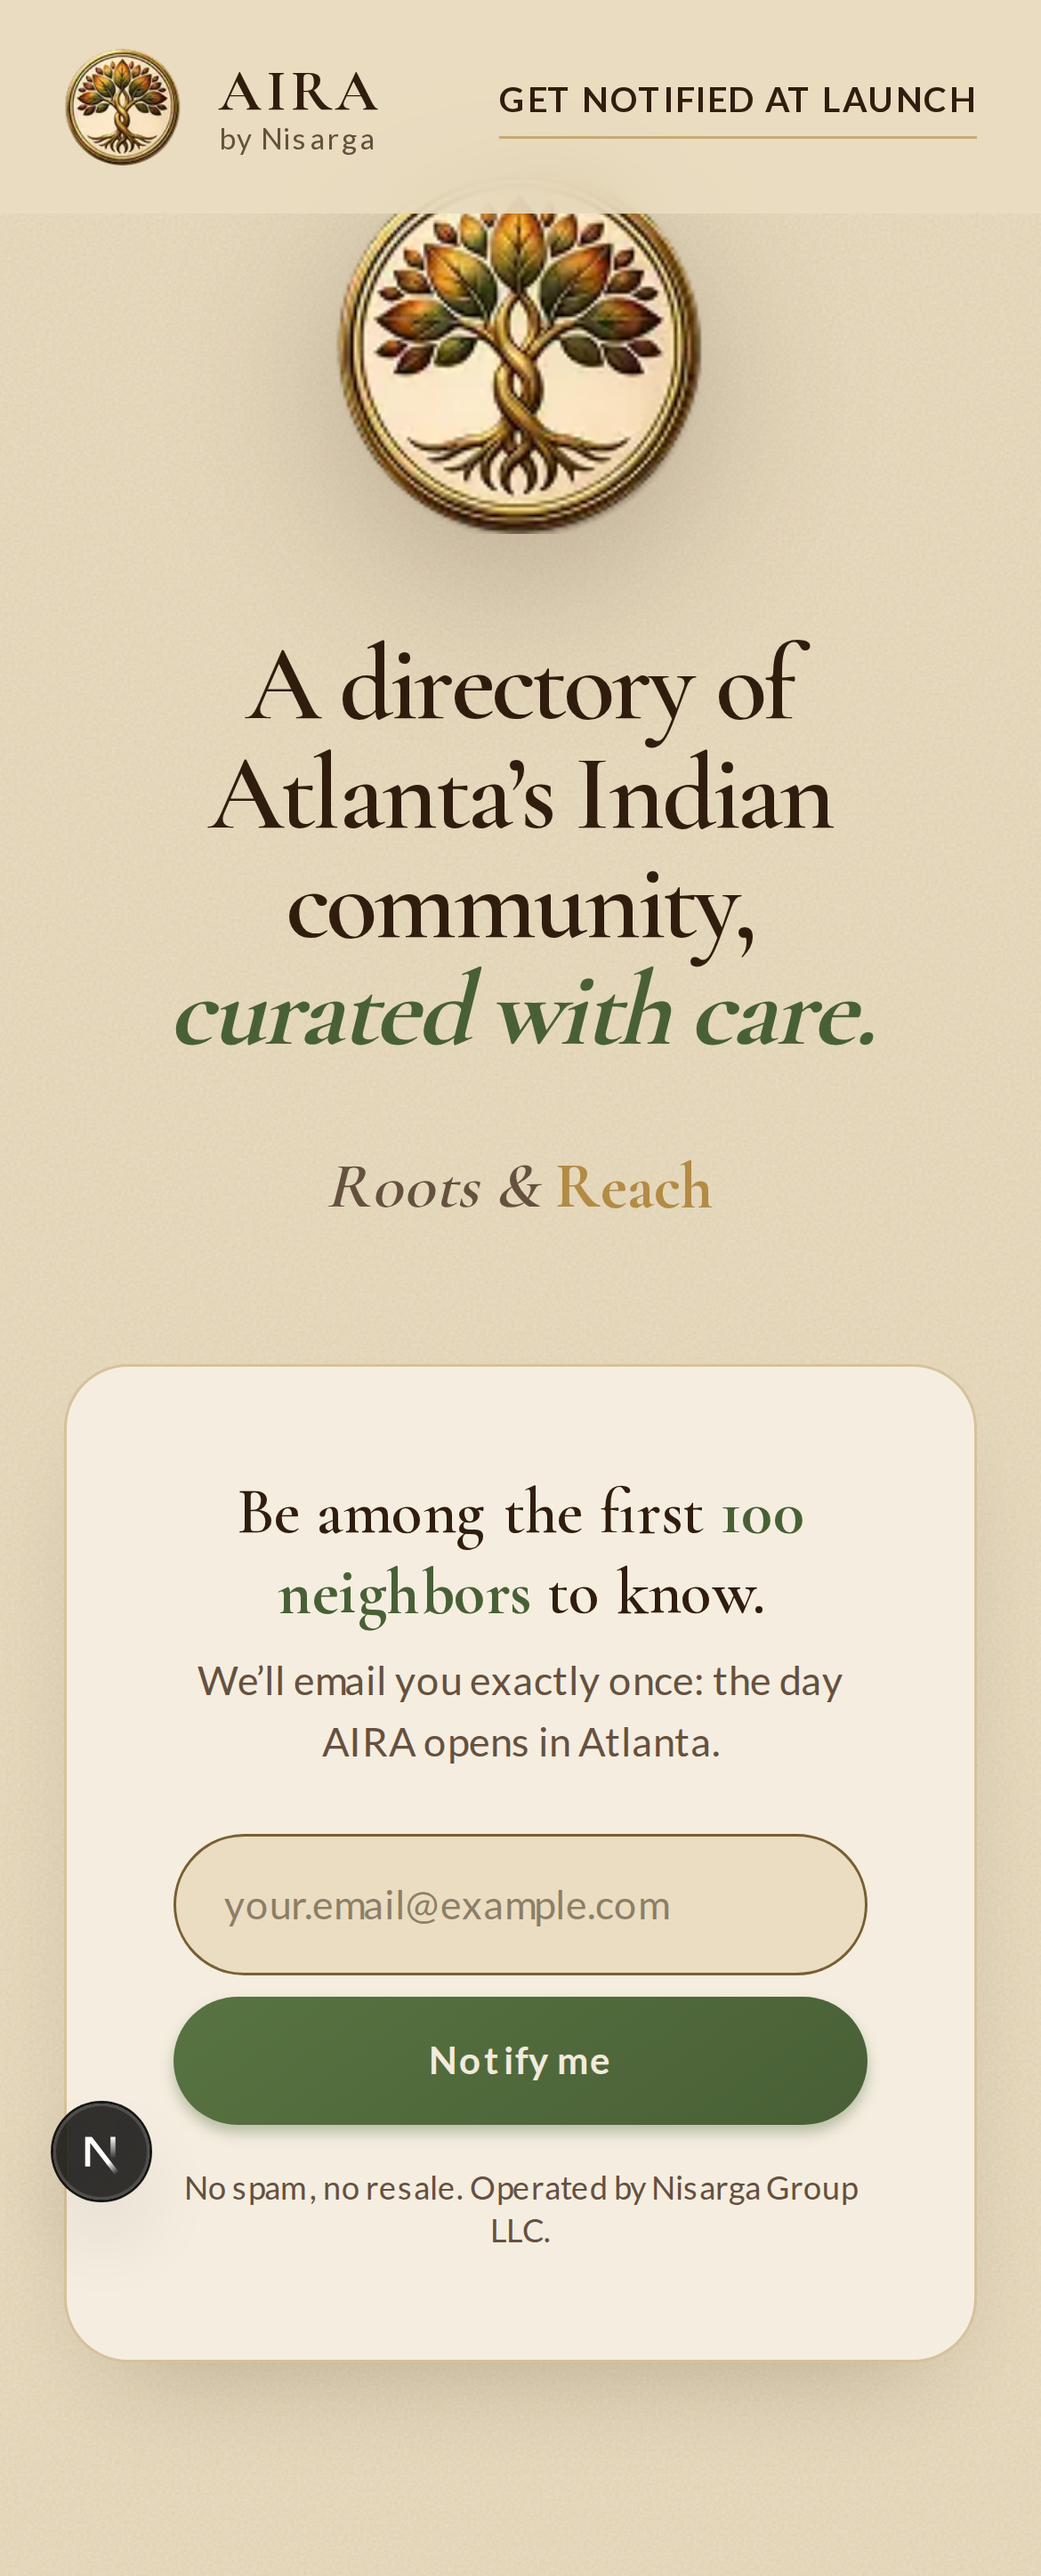
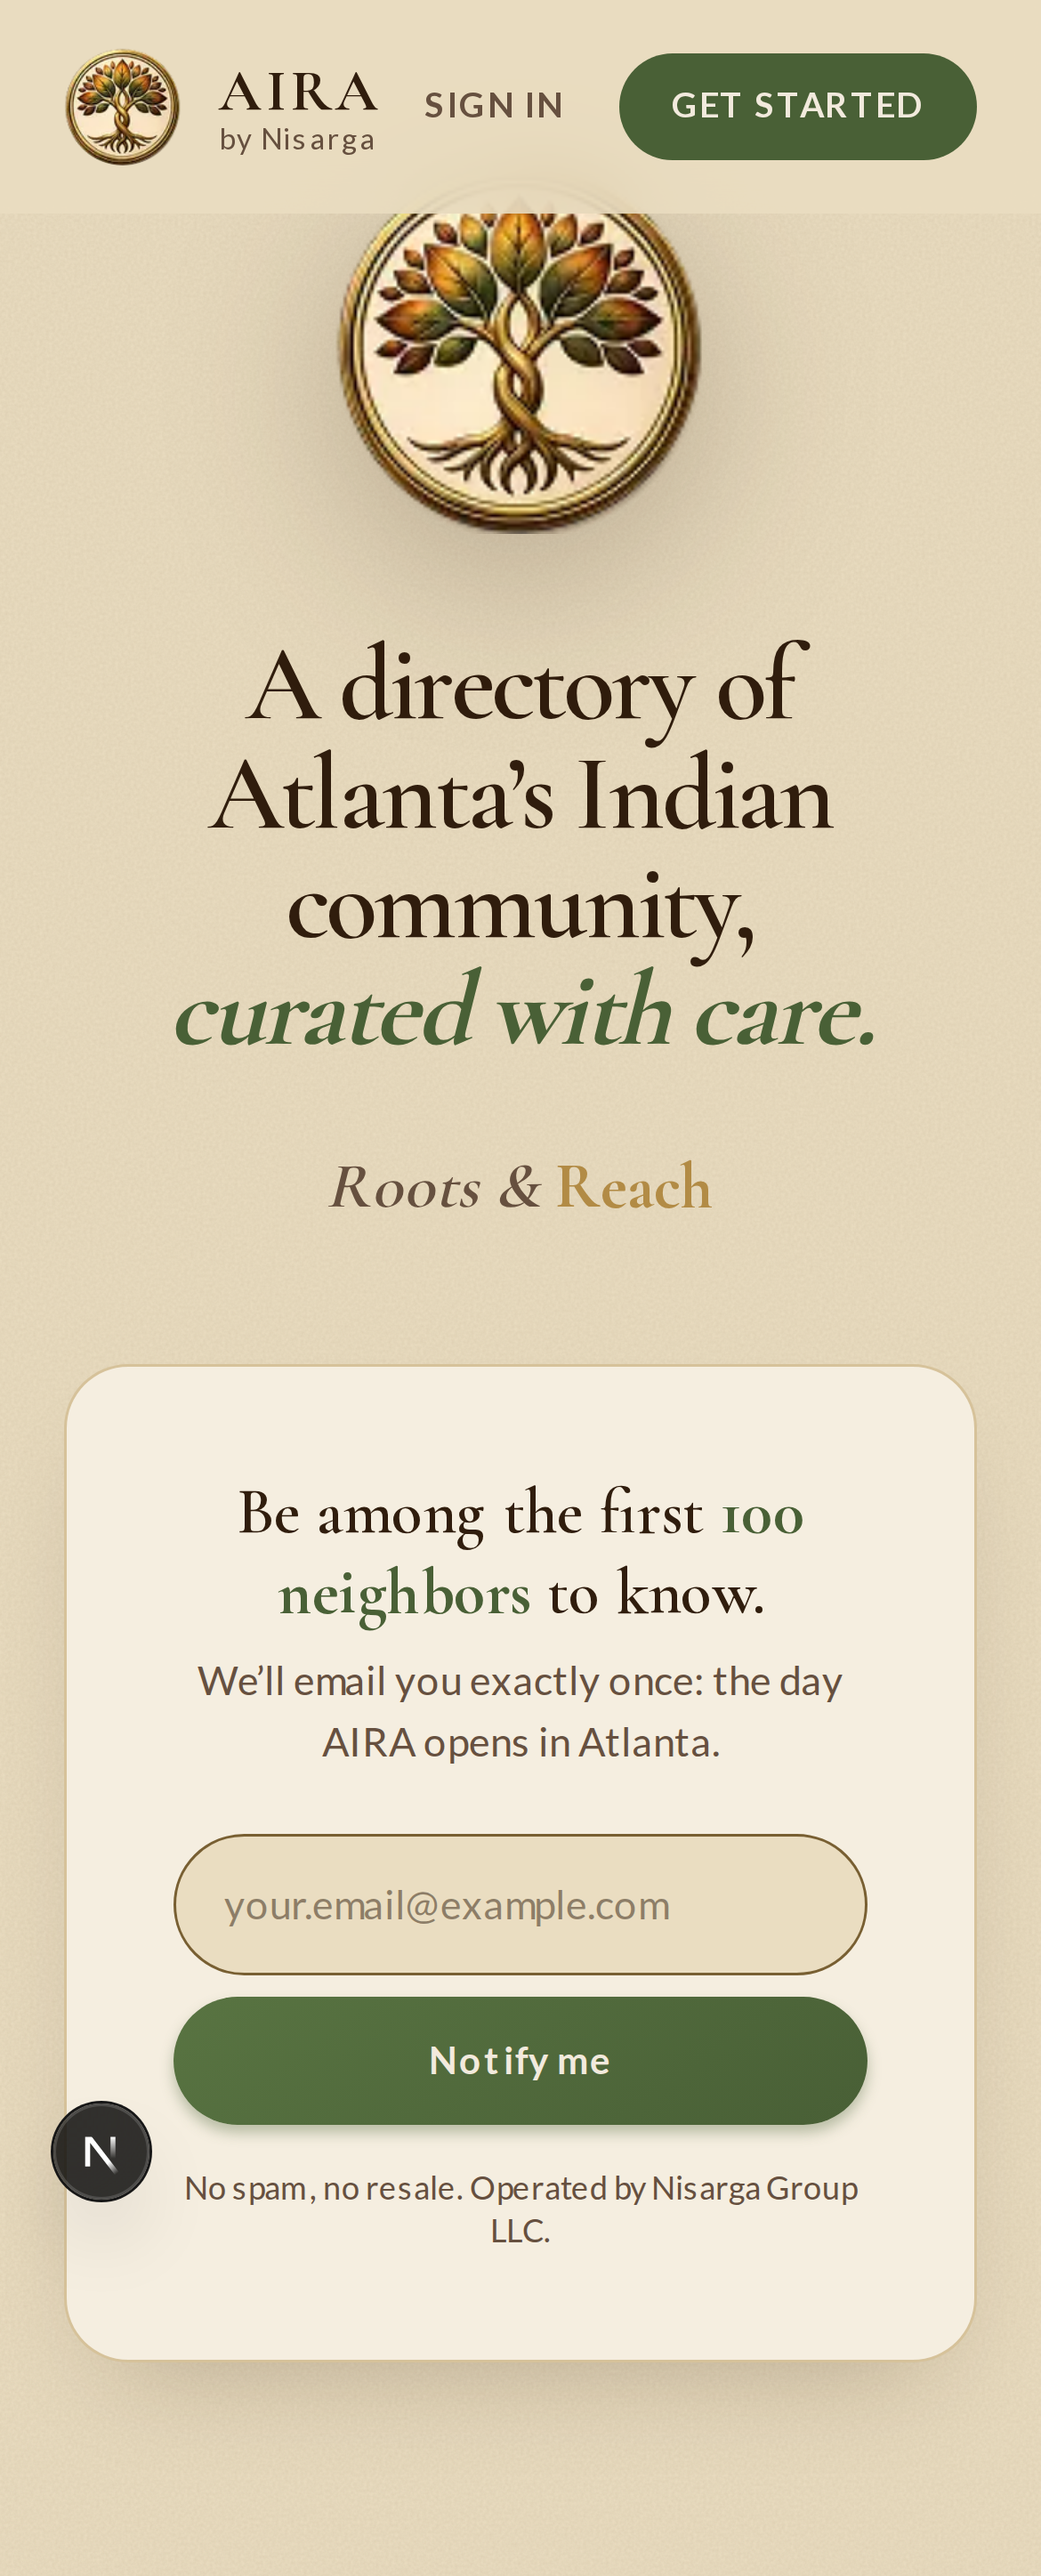
chore: record marketing-page-launch artifacts + harden workspace for next session
- .mstack/code/marketing-page-launch/: /mlabs-code implementation report (log, tasks, summary)
- .mstack/qa/2026-05-25-1120/: /mlabs-qa scenario run with assets + results.json
- .mstack/ux-audits/2026-05-25-1140/: light-mode verification spec, mobile-os screenshots, refreshed audit images
- .mstack/learnings.jsonl: 4 entries from this session's mlabs-code and mlabs-qa runs
- .mstack/plans/2026-05-25-marketing-page-launch.md: status reviewed -> implemented
- .claude/memory/: persistent guides — replit-gh-push-auth (credential helper precedence), replit-truncated-history (first-push fix)
- .gitignore: exclude Claude Code session state, npm cache, and sensitive uploads under attached_assets/
- attached_assets/: 9 UX reference screenshots
- package.json claude script: thread HOME=\$PWD + CLAUDE_CODE_OAUTH_TOKEN so Replit bootstrap reuses persistent OAuth token
- .claude/settings.json: theme: dark

Changed region(s): [[0.4308, 0.0, 0.9538, 0.0622]]

diff --git a/.mstack/code/marketing-page-launch/report.md b/.mstack/code/marketing-page-launch/report.md
@@ -1,0 +1,82 @@
+# Run report — marketing-page-launch
+
+**Status:** ✅ complete · 12/12 tasks shipped
+**Started:** 2026-05-25 10:50
+**Completed:** 2026-05-25 11:18 (~28 minutes elapsed)
+**Branch:** main (12 commits, all clean pre-commit hooks)
+**Review:** [.mstack/reviews/2026-05-25-marketing-page-launch.md](../../reviews/2026-05-25-marketing-page-launch.md)
+
+---
+
+## Tasks
+
+| | Task | Commit | Notes |
+|---|---|---|---|
+| ✓ | **T1** Waitlist Drizzle schema + migration | `4fdfb21` | First schema in this repo to use a CHECK constraint (review pre-approved) |
+| ✓ | **T2** Waitlist Zod validator | `97d2ab0` | Reuses shared `emailSchema` from auth.ts; refined in T4 to keep `_h` permissive |
+| ✓ | **T3** Welcome email template + wrapper + dev preview | `e504493` | Needed an `exports` map entry in `@aira/email/package.json` for the new subpath |
+| ✓ | **T4** `/api/v1/waitlist` POST route | `d98e5ea` | Route-direct (documented exception — `defineOperation` is auth-only) |
+| ✓ | **T9** ESLint allowlist + `brand.ts` swap | `bc976cf` | Executed early per reorder — unblocks T5-T8 marketing copy linting |
+| ✓ | **T5** waitlist-card.tsx | `35ae639` | Client component, honeypot via offscreen inline styles |
+| ✓ | **T6** about-editorial + categories-roster | `95c4e51` | Drop-cap via `:first-letter` in a dedicated CSS file (Tailwind v4 limitation) |
+| ✓ | **T7** phone-showcase + marketing-images | `4991d88` | ~940 KB of committed PNGs; `next/image` handles optimization |
+| ✓ | **T8** business-panel | `0678d77` | mailto uses `brand.supportEmail` from @aira/config |
+| ✓ | **T10** marketing-nav + marketing-footer rewrites | `2b758a8` | Added a `signedIn?` backward-compat shim to keep T10 typechecking; T11 removed it |
+| ✓ | **T11** Cutover (hero + page.tsx + og-image) | `15587ef` | OG image composed via Sharp at runtime (~275 KB); `brand.name` template literals in page.tsx |
+| ✓ | **T12** Delete 7 retired + fixture backfill | `2e8b935` | Surfaced + fixed a latent check-contrast test fixture gap |
+
+## Commits
+
+```
+2e8b935 feat(marketing): T12 delete 7 retired components + fixture backfill
+15587ef feat(marketing): T11 cutover — hero + page.tsx + og-image
+2b758a8 feat(marketing): T10 rewrite marketing-nav + marketing-footer
+0678d77 feat(marketing): T8 business-panel component
+4991d88 feat(marketing): T7 phone-showcase + committed marketing-images
+95c4e51 feat(marketing): T6 about-editorial + categories-roster
+35ae639 feat(marketing): T5 waitlist-card client component
+bc976cf chore(brand+tooling): T9 ESLint allowlist + brand.ts swap to airabynisarga.com
+d98e5ea feat(waitlist): T4 /api/v1/waitlist POST route + docs
+e504493 feat(waitlist): T3 welcome email template + wrapper + dev preview
+97d2ab0 feat(waitlist): T2 Zod validator
+4fdfb21 feat(waitlist): T1 schema + migration
+```
+
+Pre-commit hooks (check-migrations · check-contrast · check-mobile-tailwind) passed on every commit. Zero `--no-verify` usage. Zero amends.
+
+## Final verification
+
+| Check | Result |
+|---|---|
+| `pnpm typecheck` | ✅ 10/10 packages |
+| `pnpm lint` | ✅ 3/3 packages, zero warnings |
+| `pnpm test` | ✅ 18 files / 162 tests |
+| `pnpm check-contrast` | ✅ 36 token pairs all pass |
+| `pnpm gen:mobile-tw:check` | ✅ in sync |
+| `curl /` | ✅ 200, HTML contains AIRA brand strings |
+| `curl /og-image.png` | ✅ 200, image/png, 275124b |
+| `curl POST /api/v1/waitlist` | ✅ 200 `{"ok":true}` with row insertion + welcome email |
+
+## Pivots from the review (none required user re-approval)
+
+1. **`_h.max(0)` Zod constraint dropped** (T4). Plan/review specified `max(0)` for the honeypot, but that would make Zod 400 instead of letting the route return 200-silent. Behavior moved to the route; validator stays permissive on type.
+2. **Backward-compat `signedIn?: boolean` shim on `MarketingNav`** (T10). Without it, T10's commit would break typecheck mid-PR-sequence because `page.tsx` still passes the prop until T11. Shim removed in T11.
+3. **`page.tsx` brand strings use `brand.name` template literals** instead of hardcoded "AIRA" (T11). ESLint allowlist only covers `components/marketing/`, not `app/page.tsx`. Template literals via `@aira/config` are the codebase convention anyway.
+
+## Latent bug surfaced (and fixed)
+
+The earlier design-system commit (`85fe59f`) added `tier1/2/3/info` pairs to `scripts/check-contrast.ts` `PAIRS` array but did not update the matching fixtures in `apps/web/tests/check-contrast.test.ts`. The 3 fixture themes were missing those keys, causing `evaluatePairs()` to throw on every test that walked the array. The bug was latent because the design-system run only verified typecheck/lint/contrast — not the full Vitest suite. T12's verification swept the full suite and caught it. Fixed in `2e8b935` by backfilling the fixtures with compliant pairs.
+
+## Follow-ups (not done in this slice)
+
+- **Postmark sender for `airabynisarga.com`** — currently falls back to the console driver (per `@aira/email`'s existing graceful-degradation pattern). Sprint 0 follow-up per `roadmap.md`.
+- **OG image is auto-composed** (Sharp + Georgia serif fallback). A designed version with Cormorant Garamond rendered at 1200×630 would be a nice polish — current image is functional but plain.
+- **`scripts/build-og-image.ts`** — the Sharp compose is a one-off bash invocation right now; if we want it deterministic at deploy time, lift it into a build script and wire into `apps/web/package.json` `build`. Out of scope for v1.
+- **No anti-spam beyond honeypot.** Watch the `waitlist.honeypot_tripped` logger output; if real bots evade the honeypot, add IP rate limit (10/hour per IP) as a fast follow.
+- **Admin waitlist view** at `/admin/waitlist` — not built. Sprint 4+ when admin tooling expands.
+
+## Recommended next step
+
+`/mlabs-qa` with focus area "marketing-page-launch": exercise the waitlist form on real iOS Safari + Android Chrome (the v4 mockup CSS hasn't been validated on real mobile yet — only Chrome DevTools 375px viewport). Also worth: a quick e2e Playwright test that posts a fake email and asserts the success state.
+
+Or `/mlabs-ux-audit` for a polish pass on whitespace/spacing/typography in the live page now that it's mounted in the real Next.js stack (mockup vs production-rendered Tailwind output can drift subtly).

diff --git a/.claude/memory/replit-truncated-history.md b/.claude/memory/replit-truncated-history.md
@@ -1,0 +1,38 @@
+---
+name: replit-truncated-history
+description: A Replit workspace's `.git` can end up with truncated history (commits referencing parents the local repo doesn't have) WITHOUT a `.git/shallow` file. First push to a new GitHub repo fails with `remote: fatal: did not receive expected object <sha>` and no amount of repacking, --no-thin, or auth fixes helps.
+metadata:
+  type: feedback
+---
+
+If `git push` to a fresh GitHub repo fails with `remote: fatal: did not receive expected object <sha>` and `error: remote unpack failed: index-pack failed`, and you've ruled out auth (see [[replit-gh-push-auth]]) and pack corruption (`git fsck` clean, `verify-pack` ok), check whether the local history is **truncated mid-history but not marked shallow**.
+
+**Why:** Replit's `gitsafe-backup` workflow (and possibly other state-restore paths) can leave the workspace `.git` with commits whose parents aren't present locally. There's **no `.git/shallow` file**, so git itself doesn't know the history is incomplete — but GitHub's receive-pack runs a connectivity check on push and demands the missing parent. The error reports the parent SHA, which is genuinely absent from local objects (`git cat-file -t <sha>` errors).
+
+**How to diagnose:**
+
+```bash
+git rev-list --reverse main | head -1                     # the "earliest" local commit
+git cat-file -p <that-commit>                              # check its "parent" line
+git cat-file -t <parent-sha>                               # if errors → parent is missing
+cat .git/shallow                                           # if missing → repo isn't officially shallow
+```
+
+**How to fix:** Shallow markers don't help — `.git/shallow` is only honored by `fetch`, not `push`. You must rewrite history to make the truncation point a real root commit. From a clean throwaway clone (so the workspace stays untouched until the new history is verified):
+
+```bash
+git clone --single-branch --branch main file:///path/to/workspace /tmp/clean
+cd /tmp/clean
+git replace --graft <earliest-commit-sha>                  # no parent args = make it a root
+git filter-branch -f -- --all                              # materialise; rewrites all downstream SHAs
+git replace -d <earliest-commit-sha>                       # cleanup
+# pin gh credential helper here too (see replit-gh-push-auth)
+git remote set-url origin https://github.com/<owner>/<repo>.git
+git push -u origin main
+```
+
+Then sync the workspace to the new history: `git stash --include-untracked`, `git fetch origin main`, `git reset --hard origin/main`, `git stash pop`. **Watch out:** `Bash(git reset --hard:*)` is in the project's settings.json `deny` list — user has to run reset themselves via `!` prefix.
+
+All commit SHAs from the new root onward change. Working tree contents are identical. GPG signatures on the rewritten commits are stripped (warned about by `git replace --graft`).
+
+**Symptom that locked it in for me:** binary-scanning the pack for the missing OID (`perl -e 'open F,...; print index($_,pack("H*",$sha))'`) found no occurrence — meaning the pack doesn't contain a REF_DELTA pointing to it. That ruled out delta-base issues entirely and pointed to the connectivity check as the only remaining explanation.

diff --git a/.claude/memory/replit-gh-push-auth.md b/.claude/memory/replit-gh-push-auth.md
@@ -1,0 +1,25 @@
+---
+name: replit-gh-push-auth
+description: On Replit, `git push` to a GitHub remote can fail (403 or pack-unpack errors) even when `gh auth status` shows the right user — run `gh auth setup-git` to make `gh`'s credential helper win over Replit's askpass.
+metadata:
+  type: feedback
+---
+
+When pushing from a Replit workspace to `github.com`, do not assume `gh auth login` alone is enough. Run **`gh auth setup-git`** once per repo (or globally) before the first push.
+
+**Why:** Replit wires `replit-git-askpass` via `GIT_ASKPASS` and writes its own creds into `/run/replit/user/<uid>/.config/git/config`. That askpass injects the *workspace-level GitHub integration account*, which often differs from the account `gh` is logged into. Symptom: GitHub returns `Repository not found` on push to a private repo that `gh repo view` clearly sees — because git is authenticating as the *other* user. Credential helpers take precedence over askpass, so `gh auth git-credential` as the helper for `github.com` makes the `gh` token win.
+
+**How to apply:**
+
+1. **First-line fix (often enough):** `gh auth setup-git` registers the helper in Replit's managed git config file.
+2. **Durable fix (needed if pushes start failing again mid-session):** Replit *periodically rewrites* `/run/replit/user/<uid>/.config/git/config` (on identity changes, session events, etc.), wiping the helper that `gh auth setup-git` installed. Pin the helper in the **repo-local** `.git/config` — Replit can't reach it there:
+    ```bash
+    git config --local credential.https://github.com.helper ""
+    git config --local --add credential.https://github.com.helper '!/nix/store/.../bin/gh auth git-credential'
+    ```
+    The first empty-value line resets the helper chain so we don't inherit Replit's askpass. Get the gh binary path from `which gh` (it's a `/nix/store/.../bin/gh` symlink).
+3. If `gh` lacks `delete_repo` scope and you need it: `gh auth refresh -h github.com -s delete_repo`.
+
+Diagnostic: `printf 'protocol=https\nhost=github.com\n\n' | git credential fill` shows which username git will actually send. If it returns `username=token` (Replit's internal scheme) instead of your GitHub username, the helper isn't winning.
+
+Related: [[replit-truncated-history]] is a separate Replit gotcha where the workspace ends up with history missing parent commits but no `.git/shallow` file — auth fix alone won't save you there.

diff --git a/.mstack/code/marketing-page-launch/tasks.md b/.mstack/code/marketing-page-launch/tasks.md
@@ -1,0 +1,28 @@
+# Implementation: AIRA marketing landing page
+
+**Started:** 2026-05-25 10:50
+**Completed:** 2026-05-25 11:18
+**Review:** [2026-05-25-marketing-page-launch](../../reviews/2026-05-25-marketing-page-launch.md)
+**Branch:** main (user opted out of feature branch)
+**Status:** complete · 12/12 commits
+
+---
+
+## Legend
+- `[ ]` pending  ·  `[~]` in_progress  ·  `[x]` done
+- `[!]` paused (awaiting decision)  ·  `[-]` skipped
+
+## Tasks
+
+- [x] **T1:** Add `waitlist` Drizzle schema + migration — `4fdfb21`
+- [x] **T2:** Add waitlist Zod validator — `97d2ab0`
+- [x] **T3:** Welcome email template + sendWaitlistWelcomeEmail wrapper + dev preview — `e504493`
+- [x] **T4:** `/api/v1/waitlist` POST route (route-direct, documented exception) — `d98e5ea`
+- [x] **T9:** ESLint allowlist + brand.ts swap to airabynisarga.com (executed early per reorder) — `bc976cf`
+- [x] **T5:** waitlist-card.tsx client component — `35ae639`
+- [x] **T6:** about-editorial.tsx + categories-roster.tsx — `95c4e51`
+- [x] **T7:** phone-showcase.tsx + 3 marketing-images — `4991d88`
+- [x] **T8:** business-panel.tsx — `0678d77`
+- [x] **T10:** Rewrite marketing-nav.tsx + marketing-footer.tsx — `2b758a8`
+- [x] **T11:** Cutover — hero.tsx + apps/web/src/app/page.tsx + og-image.png — `15587ef`
+- [x] **T12:** Delete 7 retired components + check-contrast fixture backfill — `2e8b935`

diff --git a/.claude/memory/MEMORY.md b/.claude/memory/MEMORY.md
@@ -1,0 +1,4 @@
+# Memory index
+
+- [Replit + GitHub push auth](replit-gh-push-auth.md) — `gh auth setup-git` makes `gh`'s token beat Replit's askpass; pin the helper in repo-local `.git/config` because Replit rewrites its managed config mid-session.
+- [Replit truncated git history](replit-truncated-history.md) — workspace `.git` can end up with parents missing but no `.git/shallow`; first push to a fresh GitHub repo fails with `did not receive expected object <sha>`. Must rewrite history with `git replace --graft` + filter-branch.

diff --git a/.mstack/plans/2026-05-25-marketing-page-launch.md b/.mstack/plans/2026-05-25-marketing-page-launch.md
@@ -2,9 +2,10 @@
 
 **Date:** 2026-05-25
 **Slug:** marketing-page-launch
-**Status:** reviewed
+**Status:** implemented
 **Author:** Claude (with framer@millionlabs.co.uk as project lead)
 **Reviewed:** [../reviews/2026-05-25-marketing-page-launch.md](../reviews/2026-05-25-marketing-page-launch.md) (UI-Significant: no)
+**Implemented:** [../code/marketing-page-launch/report.md](../code/marketing-page-launch/report.md) (12 commits 4fdfb21..2e8b935)
 
 ---
 

diff --git a/.mstack/code/marketing-page-launch/log.md b/.mstack/code/marketing-page-launch/log.md
@@ -1,0 +1,5 @@
+# Run log — marketing-page-launch
+
+Started 2026-05-25 10:50. Branch: main (user opted out of feature branch).
+
+---
